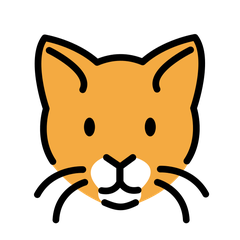
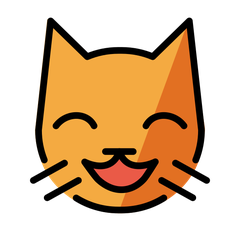
Use smiling cat sticker

Changed region(s): [[0.1167, 0.0583, 0.875, 0.9333]]

diff --git a/index.html b/index.html
@@ -289,7 +289,7 @@
     </div>
   </section>
 
-  <img class="sticker" style="top:10px; right:-6px;" src="sticker-cat.png" alt="Милый котик" loading="lazy" onerror="this.style.display='none'">
+  <img class="sticker" style="top:10px; right:-6px;" src="sticker-cat.png" alt="Улыбающийся милый котик" loading="lazy" onerror="this.style.display='none'">
 
   <footer>Страница создана для удобства заезда и навигации между двумя квартирами в Алматы.</footer>
 </div>
